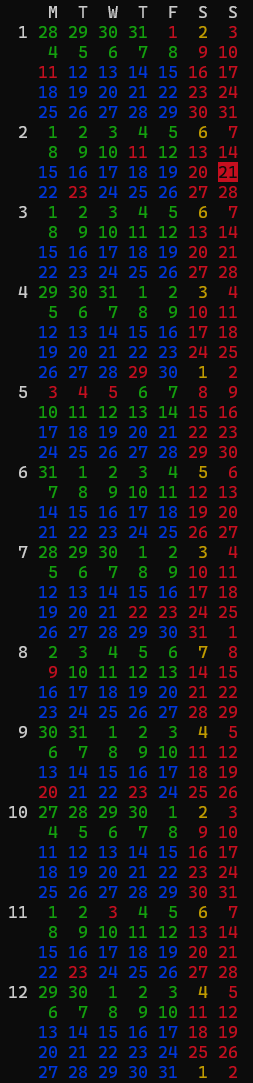
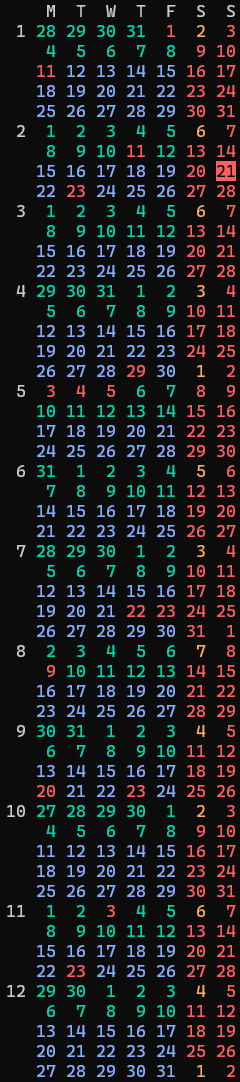
update colors

diff --git a/lib/suzuki/navi/calendar.rb b/lib/suzuki/navi/calendar.rb
@@ -82,21 +82,23 @@ module Suzuki
             if day.wday == 1
               y, m, w = weekMonth(day)
             end
-            if w == 1 || w == 2
-              esc1 = "\e[32m"
+            if y < 2019 || y == 2019 && m < 10
+              esc1 = "\e[38;5;248m"
+            elsif w == 1 || w == 2
+              esc1 = "\e[38;5;43m"
             else
-              esc1 = "\e[34m"
+              esc1 = "\e[38;5;111m"
             end
             if day.wday == 6 || day.wday == 0
-              esc1 = "\e[31m"
+              esc1 = "\e[38;5;203m"
             end
             holidayName = HolidayJapan.name(day)
             if holidayName
-              esc1 = "\e[31m"
+              esc1 = "\e[38;5;203m"
             end
             if day.wday == 6 && day.mday <= 7
               # 第1土曜日
-              esc1 = "\e[33m"
+              esc1 = "\e[38;5;215m"
             end
             if day == today
               esc1 = esc1 + "\e[7m"
